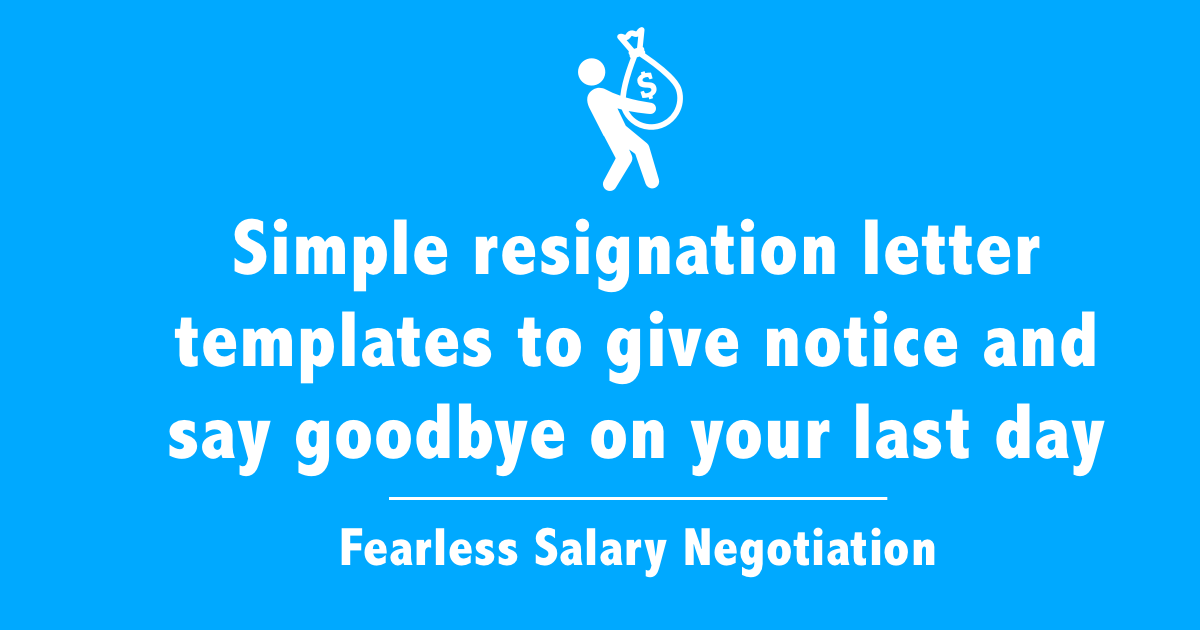
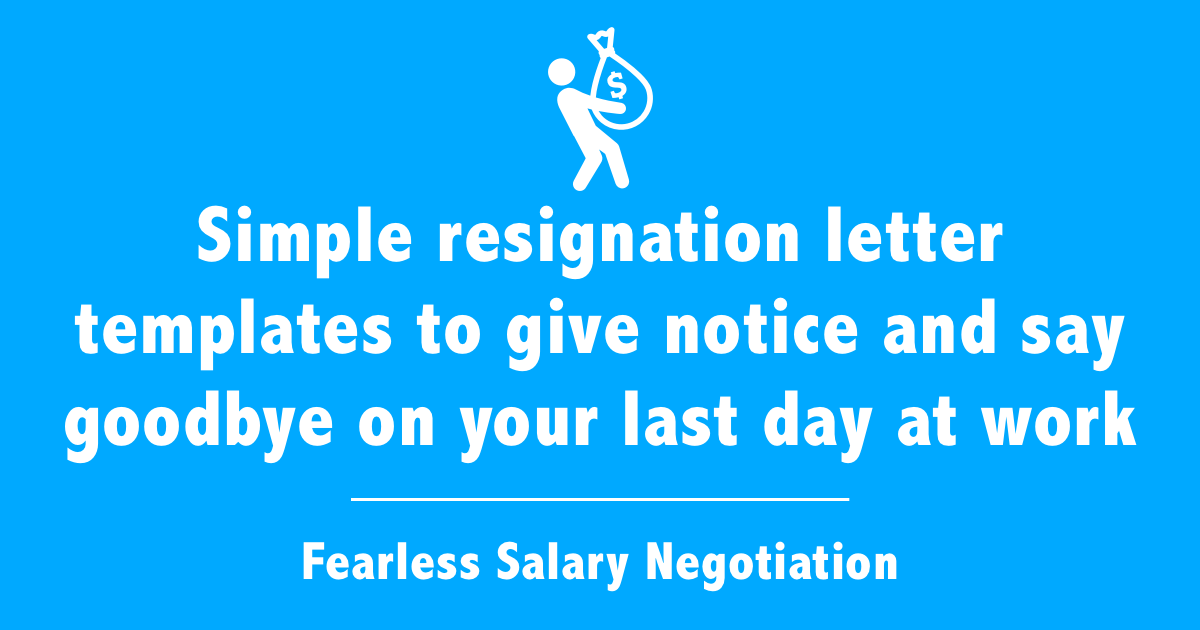
title and image inclued 'at work'

diff --git a/_posts/2017-08-08-resignation-letter.md b/_posts/2017-08-08-resignation-letter.md
@@ -1,7 +1,7 @@
 ---
 layout: post
 title: Resignation letter templates - free, simple example emails
-headline: Simple resignation letter templates to give notice and say goodbye on your last day
+headline: Simple resignation letter templates to give notice and say goodbye on your last day at work
 tagline: Simple letter of resignation and last day at work email templates
 excerpt: Use these free, simple resignation letter templates to email your boss and colleagues to give notice and say goodbye on your last day at work.
 context: negotiate
